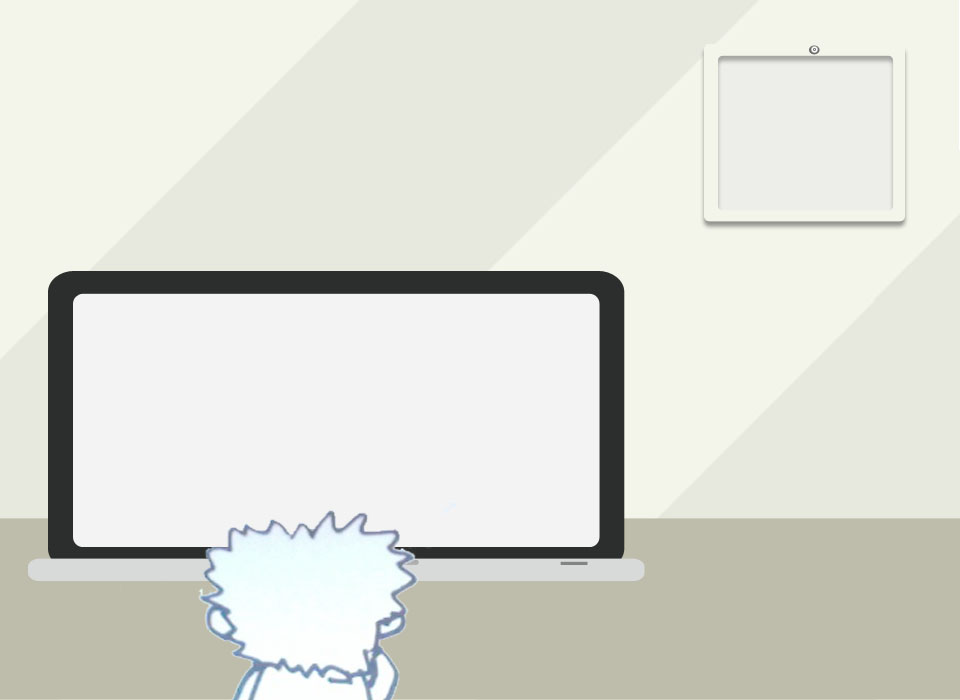
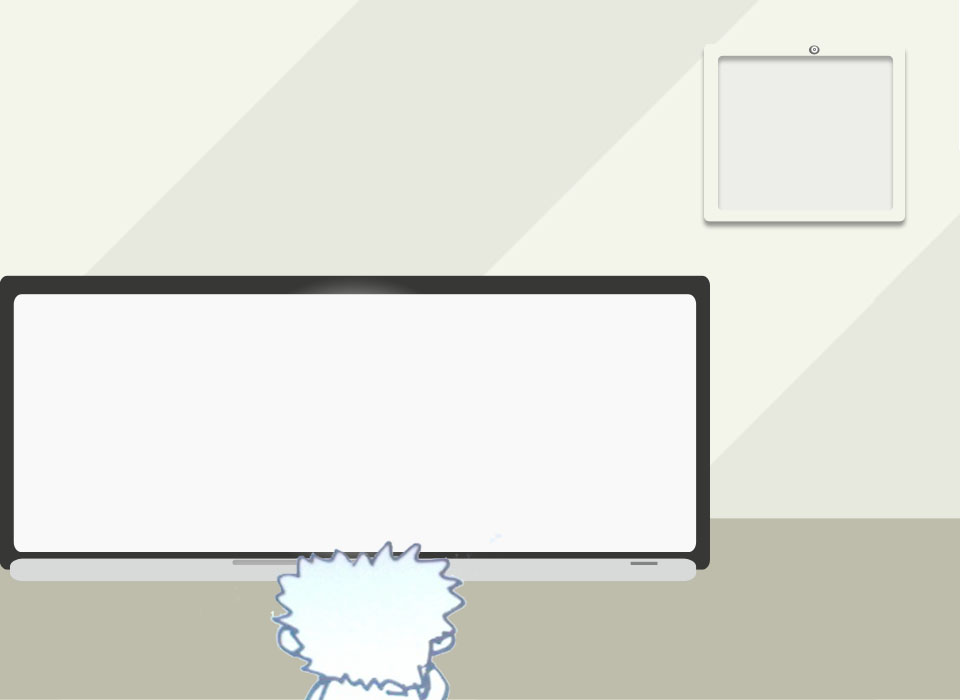
final layout dimension

Changed region(s): [[0.0, 0.39, 0.75, 1.0]]

diff --git a/public/stylesheets/scaffold.css b/public/stylesheets/scaffold.css
@@ -5,9 +5,9 @@
 	float:right;
 }
 #computer_screen {
-	margin: 95px 0px 0px 75px;
-	width:80%;
-	height: 200px;
+	margin: 45px 0px 0px 10px;
+	width:100%;
+	height: 220px;
 	overflow: hidden;
 }
 
@@ -21,28 +21,33 @@
 }
 
 #left {
-	width: 640px;
+	width: 700px;
 	float:left;
 }
 #right {
-	width: 320px;
+	width: 260px;
 	float:right;
 }
 #intro {
-	height: 100px;
+	height: 30px;
+	padding-top:10px;
+	text-align:center;
+	color:black;
 }
 #problem {
-	height: 100px;
+	height: 90px;
+	margin:10px;
 }
-#console {
-	height: 300px;
+#example {
+	margin:10px;
+	height:90px;
 }
 
 #debug {
 	height: 400px;
 }
 #score {
-	height: 200px;
+	height: 220px;
 }
 
 .outline {

diff --git a/public/javascripts/engine.js b/public/javascripts/engine.js
@@ -26,7 +26,7 @@ var advance = function() {
 
 var hack = {
 	handleSyntaxError: function(e) {
-		$("#feedback").text("ERROR: " + e);
+		$("#debug").text("ERROR: " + e);
 	},
 	success: function() {
 		return false;
@@ -41,6 +41,7 @@ $(document).ready(function() {
 	//load the problem
 	$("#intro").html(hack.intro)
 	$("#problem").html(hack.problem)
+	example_editor.setValue(hack.example)
 
     if (hack.code) {
       editor.setValue(hack.code);

diff --git a/public/javascripts/editor.js b/public/javascripts/editor.js
@@ -1,6 +1,12 @@
 var editor;
 $(document).ready(function() {
     editor = CodeMirror.fromTextArea($("#editor").get(0),{
-        lineNumbers: true
+        lineNumbers: false
     });
+
+    example_editor = CodeMirror.fromTextArea($("#example_screen").get(0),{
+        lineNumbers: false,
+		readOnly: true
+    });
+
 });

diff --git a/public/javascripts/problem1.js b/public/javascripts/problem1.js
@@ -1,6 +1,7 @@
 $.extend(hack, {
-	intro: "start with something simple",
-	problem: "add 2 + 2",
+	intro: "1. 简单的开始",
+	problem: "30+75等于?",
+	example: "1+1 //2\n3+3 //6",
 	success: function(consoleLog, ret) {
 		if (consoleLog === 4 || ret === 4) {
 			return true;
